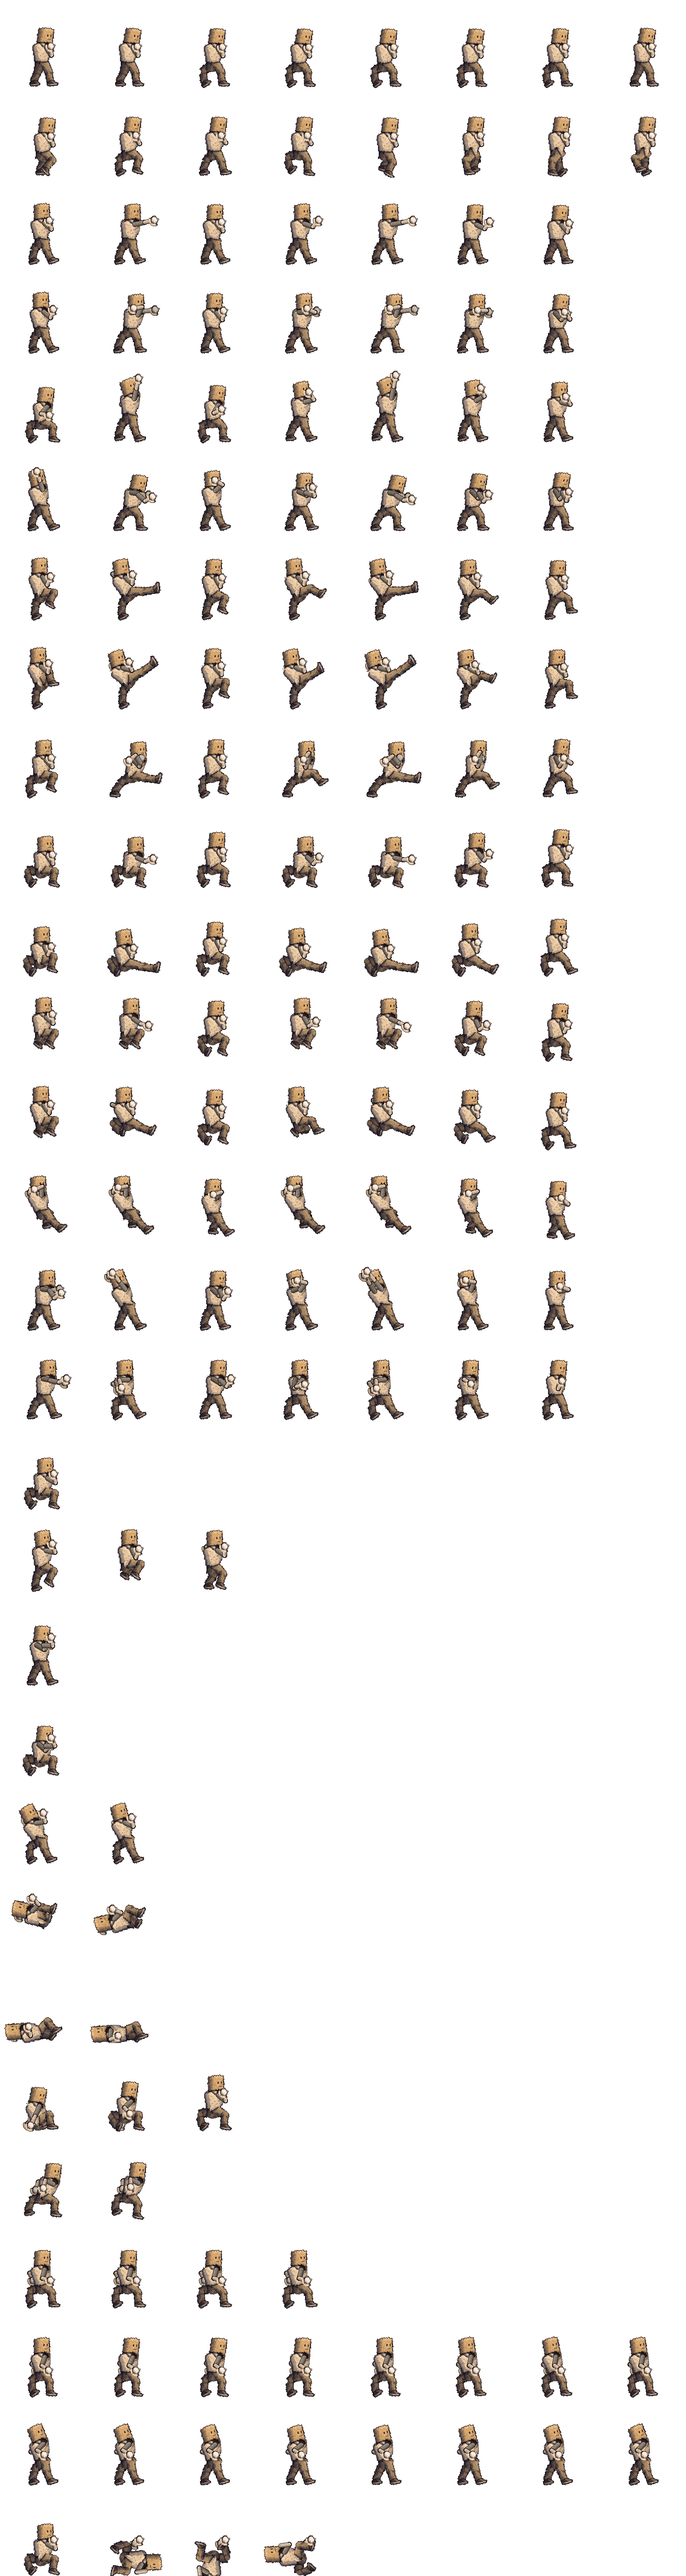
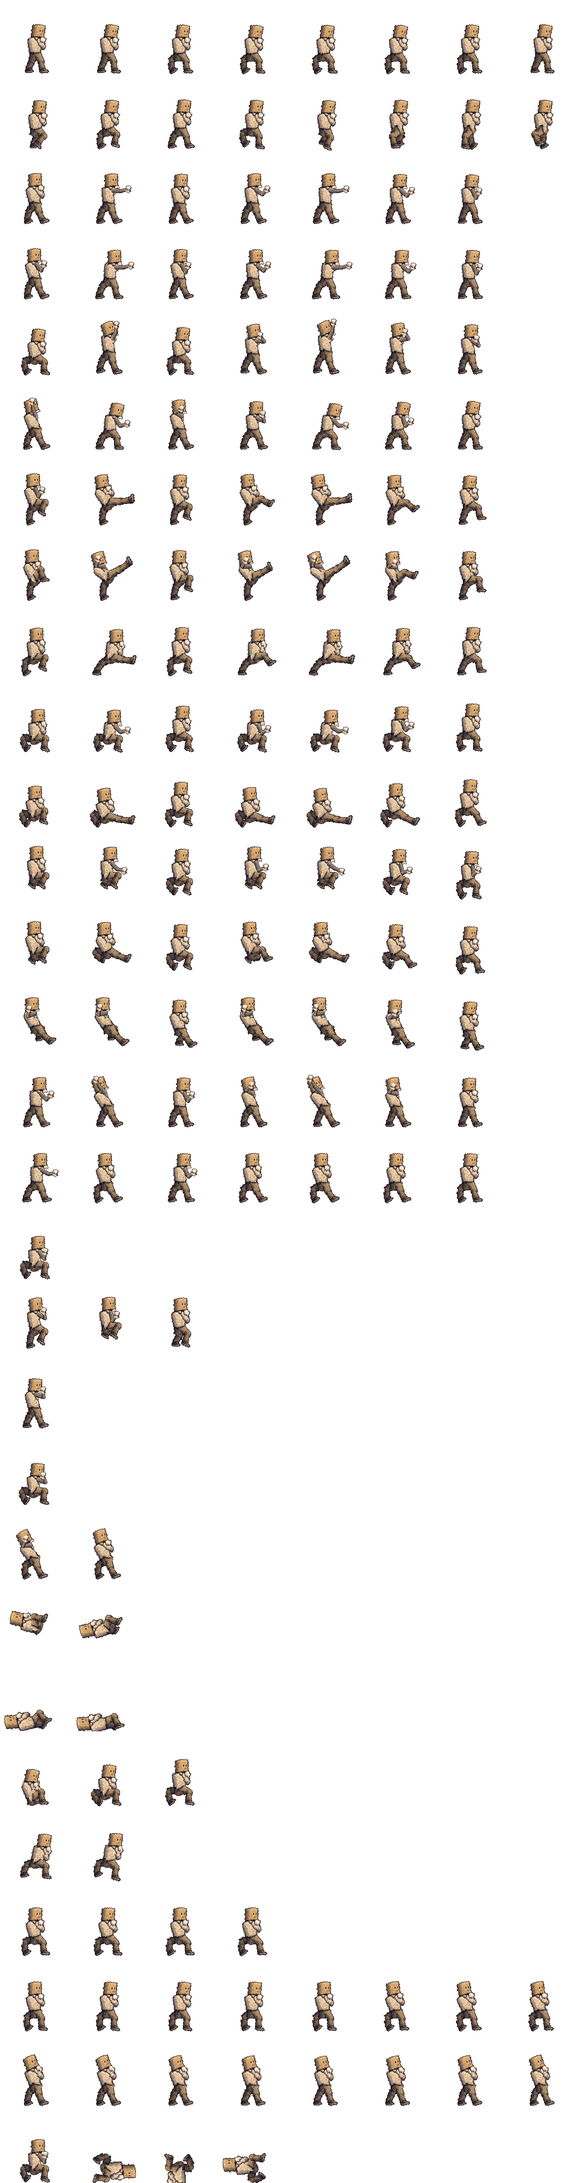
Add files via upload

diff --git a/js/art.js b/js/art.js
@@ -1,28 +1,28 @@
 /* DEGEN DOJO: baked pixel-art fighter sheets (generated). Rows follow DD.Sprites.ANIM_LIST; 2 px per sprite unit, drawn at ZOOM. */
-DD.SPRITE_ART_COMMON={cell:[228,236],anchor:[110,222],unit:2,zoom:1,anims:{"idle": {"row": 0, "n": 8}, "walk": {"row": 1, "n": 8}, "jab": {"row": 2, "n": 7}, "punch": {"row": 3, "n": 7}, "upper": {"row": 4, "n": 7}, "heavy": {"row": 5, "n": 7}, "kick": {"row": 6, "n": 7}, "round": {"row": 7, "n": 7}, "lunge": {"row": 8, "n": 7}, "cpunch": {"row": 9, "n": 7}, "ckick": {"row": 10, "n": 7}, "jpunch": {"row": 11, "n": 7}, "jkick": {"row": 12, "n": 7}, "dive": {"row": 13, "n": 7}, "throw": {"row": 14, "n": 7}, "special": {"row": 15, "n": 7}, "crouch": {"row": 16, "n": 1}, "jump": {"row": 17, "n": 3}, "block": {"row": 18, "n": 1}, "cblock": {"row": 19, "n": 1}, "hit": {"row": 20, "n": 2}, "fall": {"row": 21, "n": 2}, "kd": {"row": 22, "n": 2}, "getup": {"row": 23, "n": 3}, "dash": {"row": 24, "n": 2}, "charge": {"row": 25, "n": 4}, "dizzy": {"row": 26, "n": 8}, "win": {"row": 27, "n": 8}, "ball": {"row": 28, "n": 4}, "grab": {"row": 14, "n": 1}, "intro": {"row": 27, "n": 8}}};
+DD.SPRITE_ART_COMMON={cell:[192,200],anchor:[92,188],unit:2,zoom:1,anims:{"idle": {"row": 0, "n": 8}, "walk": {"row": 1, "n": 8}, "jab": {"row": 2, "n": 7}, "punch": {"row": 3, "n": 7}, "upper": {"row": 4, "n": 7}, "heavy": {"row": 5, "n": 7}, "kick": {"row": 6, "n": 7}, "round": {"row": 7, "n": 7}, "lunge": {"row": 8, "n": 7}, "cpunch": {"row": 9, "n": 7}, "ckick": {"row": 10, "n": 7}, "jpunch": {"row": 11, "n": 7}, "jkick": {"row": 12, "n": 7}, "dive": {"row": 13, "n": 7}, "throw": {"row": 14, "n": 7}, "special": {"row": 15, "n": 7}, "crouch": {"row": 16, "n": 1}, "jump": {"row": 17, "n": 3}, "block": {"row": 18, "n": 1}, "cblock": {"row": 19, "n": 1}, "hit": {"row": 20, "n": 2}, "fall": {"row": 21, "n": 2}, "kd": {"row": 22, "n": 2}, "getup": {"row": 23, "n": 3}, "dash": {"row": 24, "n": 2}, "charge": {"row": 25, "n": 4}, "dizzy": {"row": 26, "n": 8}, "win": {"row": 27, "n": 8}, "ball": {"row": 28, "n": 4}, "grab": {"row": 14, "n": 1}, "intro": {"row": 27, "n": 8}}};
 DD.SPRITE_IDLE={src:'img/fighters/_idle.png',order:["diamond", "paper", "moon", "rug", "linegoup", "bear", "bull", "whale", "gas", "brain", "copium", "npc", "clickbait", "keyboard", "grass", "sigma", "skill", "ratio", "main", "lag", "shiba", "cat", "unit", "doom"]};
 DD.SPRITE_ART={};
-DD.SPRITE_ART['diamond']=Object.assign({src:'img/fighters/diamond.png'},DD.SPRITE_ART_COMMON);
-DD.SPRITE_ART['paper']=Object.assign({src:'img/fighters/paper.png'},DD.SPRITE_ART_COMMON);
-DD.SPRITE_ART['moon']=Object.assign({src:'img/fighters/moon.png'},DD.SPRITE_ART_COMMON);
-DD.SPRITE_ART['rug']=Object.assign({src:'img/fighters/rug.png'},DD.SPRITE_ART_COMMON);
-DD.SPRITE_ART['linegoup']=Object.assign({src:'img/fighters/linegoup.png'},DD.SPRITE_ART_COMMON);
-DD.SPRITE_ART['bear']=Object.assign({src:'img/fighters/bear.png'},DD.SPRITE_ART_COMMON);
-DD.SPRITE_ART['bull']=Object.assign({src:'img/fighters/bull.png'},DD.SPRITE_ART_COMMON);
-DD.SPRITE_ART['whale']=Object.assign({src:'img/fighters/whale.png'},DD.SPRITE_ART_COMMON);
-DD.SPRITE_ART['gas']=Object.assign({src:'img/fighters/gas.png'},DD.SPRITE_ART_COMMON);
-DD.SPRITE_ART['brain']=Object.assign({src:'img/fighters/brain.png'},DD.SPRITE_ART_COMMON);
-DD.SPRITE_ART['copium']=Object.assign({src:'img/fighters/copium.png'},DD.SPRITE_ART_COMMON);
-DD.SPRITE_ART['npc']=Object.assign({src:'img/fighters/npc.png'},DD.SPRITE_ART_COMMON);
-DD.SPRITE_ART['clickbait']=Object.assign({src:'img/fighters/clickbait.png'},DD.SPRITE_ART_COMMON);
-DD.SPRITE_ART['keyboard']=Object.assign({src:'img/fighters/keyboard.png'},DD.SPRITE_ART_COMMON);
-DD.SPRITE_ART['grass']=Object.assign({src:'img/fighters/grass.png'},DD.SPRITE_ART_COMMON);
-DD.SPRITE_ART['sigma']=Object.assign({src:'img/fighters/sigma.png'},DD.SPRITE_ART_COMMON);
-DD.SPRITE_ART['skill']=Object.assign({src:'img/fighters/skill.png'},DD.SPRITE_ART_COMMON);
-DD.SPRITE_ART['ratio']=Object.assign({src:'img/fighters/ratio.png'},DD.SPRITE_ART_COMMON);
-DD.SPRITE_ART['main']=Object.assign({src:'img/fighters/main.png'},DD.SPRITE_ART_COMMON);
-DD.SPRITE_ART['lag']=Object.assign({src:'img/fighters/lag.png'},DD.SPRITE_ART_COMMON);
-DD.SPRITE_ART['shiba']=Object.assign({src:'img/fighters/shiba.png'},DD.SPRITE_ART_COMMON);
-DD.SPRITE_ART['cat']=Object.assign({src:'img/fighters/cat.png'},DD.SPRITE_ART_COMMON);
-DD.SPRITE_ART['unit']=Object.assign({src:'img/fighters/unit.png'},DD.SPRITE_ART_COMMON);
-DD.SPRITE_ART['doom']=Object.assign({src:'img/fighters/doom.png'},DD.SPRITE_ART_COMMON);
+DD.SPRITE_ART['diamond']=Object.assign({src:'img/fighters/diamond.png',front:35,h:131,back:30},DD.SPRITE_ART_COMMON);
+DD.SPRITE_ART['paper']=Object.assign({src:'img/fighters/paper.png',front:38,h:124,back:26},DD.SPRITE_ART_COMMON);
+DD.SPRITE_ART['moon']=Object.assign({src:'img/fighters/moon.png',front:37,h:135,back:29},DD.SPRITE_ART_COMMON);
+DD.SPRITE_ART['rug']=Object.assign({src:'img/fighters/rug.png',front:39,h:131,back:31},DD.SPRITE_ART_COMMON);
+DD.SPRITE_ART['linegoup']=Object.assign({src:'img/fighters/linegoup.png',front:35,h:126,back:34},DD.SPRITE_ART_COMMON);
+DD.SPRITE_ART['bear']=Object.assign({src:'img/fighters/bear.png',front:41,h:128,back:34},DD.SPRITE_ART_COMMON);
+DD.SPRITE_ART['bull']=Object.assign({src:'img/fighters/bull.png',front:37,h:132,back:31},DD.SPRITE_ART_COMMON);
+DD.SPRITE_ART['whale']=Object.assign({src:'img/fighters/whale.png',front:40,h:139,back:33},DD.SPRITE_ART_COMMON);
+DD.SPRITE_ART['gas']=Object.assign({src:'img/fighters/gas.png',front:40,h:128,back:28},DD.SPRITE_ART_COMMON);
+DD.SPRITE_ART['brain']=Object.assign({src:'img/fighters/brain.png',front:38,h:144,back:32},DD.SPRITE_ART_COMMON);
+DD.SPRITE_ART['copium']=Object.assign({src:'img/fighters/copium.png',front:39,h:128,back:29},DD.SPRITE_ART_COMMON);
+DD.SPRITE_ART['npc']=Object.assign({src:'img/fighters/npc.png',front:40,h:151,back:30},DD.SPRITE_ART_COMMON);
+DD.SPRITE_ART['clickbait']=Object.assign({src:'img/fighters/clickbait.png',front:38,h:152,back:28},DD.SPRITE_ART_COMMON);
+DD.SPRITE_ART['keyboard']=Object.assign({src:'img/fighters/keyboard.png',front:45,h:126,back:30},DD.SPRITE_ART_COMMON);
+DD.SPRITE_ART['grass']=Object.assign({src:'img/fighters/grass.png',front:37,h:146,back:31},DD.SPRITE_ART_COMMON);
+DD.SPRITE_ART['sigma']=Object.assign({src:'img/fighters/sigma.png',front:36,h:131,back:32},DD.SPRITE_ART_COMMON);
+DD.SPRITE_ART['skill']=Object.assign({src:'img/fighters/skill.png',front:36,h:133,back:35},DD.SPRITE_ART_COMMON);
+DD.SPRITE_ART['ratio']=Object.assign({src:'img/fighters/ratio.png',front:37,h:144,back:37},DD.SPRITE_ART_COMMON);
+DD.SPRITE_ART['main']=Object.assign({src:'img/fighters/main.png',front:40,h:142,back:37},DD.SPRITE_ART_COMMON);
+DD.SPRITE_ART['lag']=Object.assign({src:'img/fighters/lag.png',front:38,h:128,back:32},DD.SPRITE_ART_COMMON);
+DD.SPRITE_ART['shiba']=Object.assign({src:'img/fighters/shiba.png',front:41,h:135,back:32},DD.SPRITE_ART_COMMON);
+DD.SPRITE_ART['cat']=Object.assign({src:'img/fighters/cat.png',front:37,h:128,back:33},DD.SPRITE_ART_COMMON);
+DD.SPRITE_ART['unit']=Object.assign({src:'img/fighters/unit.png',front:40,h:138,back:37},DD.SPRITE_ART_COMMON);
+DD.SPRITE_ART['doom']=Object.assign({src:'img/fighters/doom.png',front:39,h:128,back:37},DD.SPRITE_ART_COMMON);

diff --git a/js/game.js b/js/game.js
@@ -848,7 +848,9 @@ class Fight {
     ctx.strokeStyle='#ffd23f'; ctx.lineWidth=1.5; ctx.beginPath(); ctx.arc(x,y-2,12,-Math.PI/2,-Math.PI/2+Math.PI*2*p); ctx.stroke();
     ctx.restore();
   }
-  shieldGeom(f){ const cr=f.shieldCrouch; return {x:f.x+f.face*20, y:f.y-(cr?40:66), rx:18, ry:cr?34:54}; }
+  shieldGeom(f){ const cr=f.shieldCrouch, A=DD.SPRITE_ART&&DD.SPRITE_ART[f.spec.id], fr=A&&A.front?A.front:28, h=A&&A.h?Math.min(A.h,130):116;
+    // sits just in front of the fighter's lead fist, sized to the sprite, so it never cuts through the body
+    return {x:f.x+f.face*(fr-3), y:f.y-(cr?h*0.3:h*0.5), rx:18, ry:cr?h*0.3:h*0.47}; }
   shatter(f){ const g=this.shieldGeom(f); this.rec('shatter',[this.p.indexOf(f)]); const rec=this._inUpdate; this._inUpdate=false; this.snd('shatter');
     for(let i=0;i<18;i++){ const a=rand(-1.3,1.3), sp=rand(1.5,4.5); this.fx.push({kind:'shard',x:g.x+rand(-4,8)*f.face,y:g.y+rand(-g.ry,g.ry)*0.8,vx:Math.cos(a)*sp*f.face,vy:Math.sin(a)*sp-1.5,g:0.18,rot:rand(0,6),vr:rand(-0.3,0.3),s:rand(3,7),life:34+(Math.random()*16|0),max:50}); }
     this.ring(g.x,g.y,'#bff0ff'); this.ring(g.x,g.y,'#5ad1ff'); this._inUpdate=rec; }
